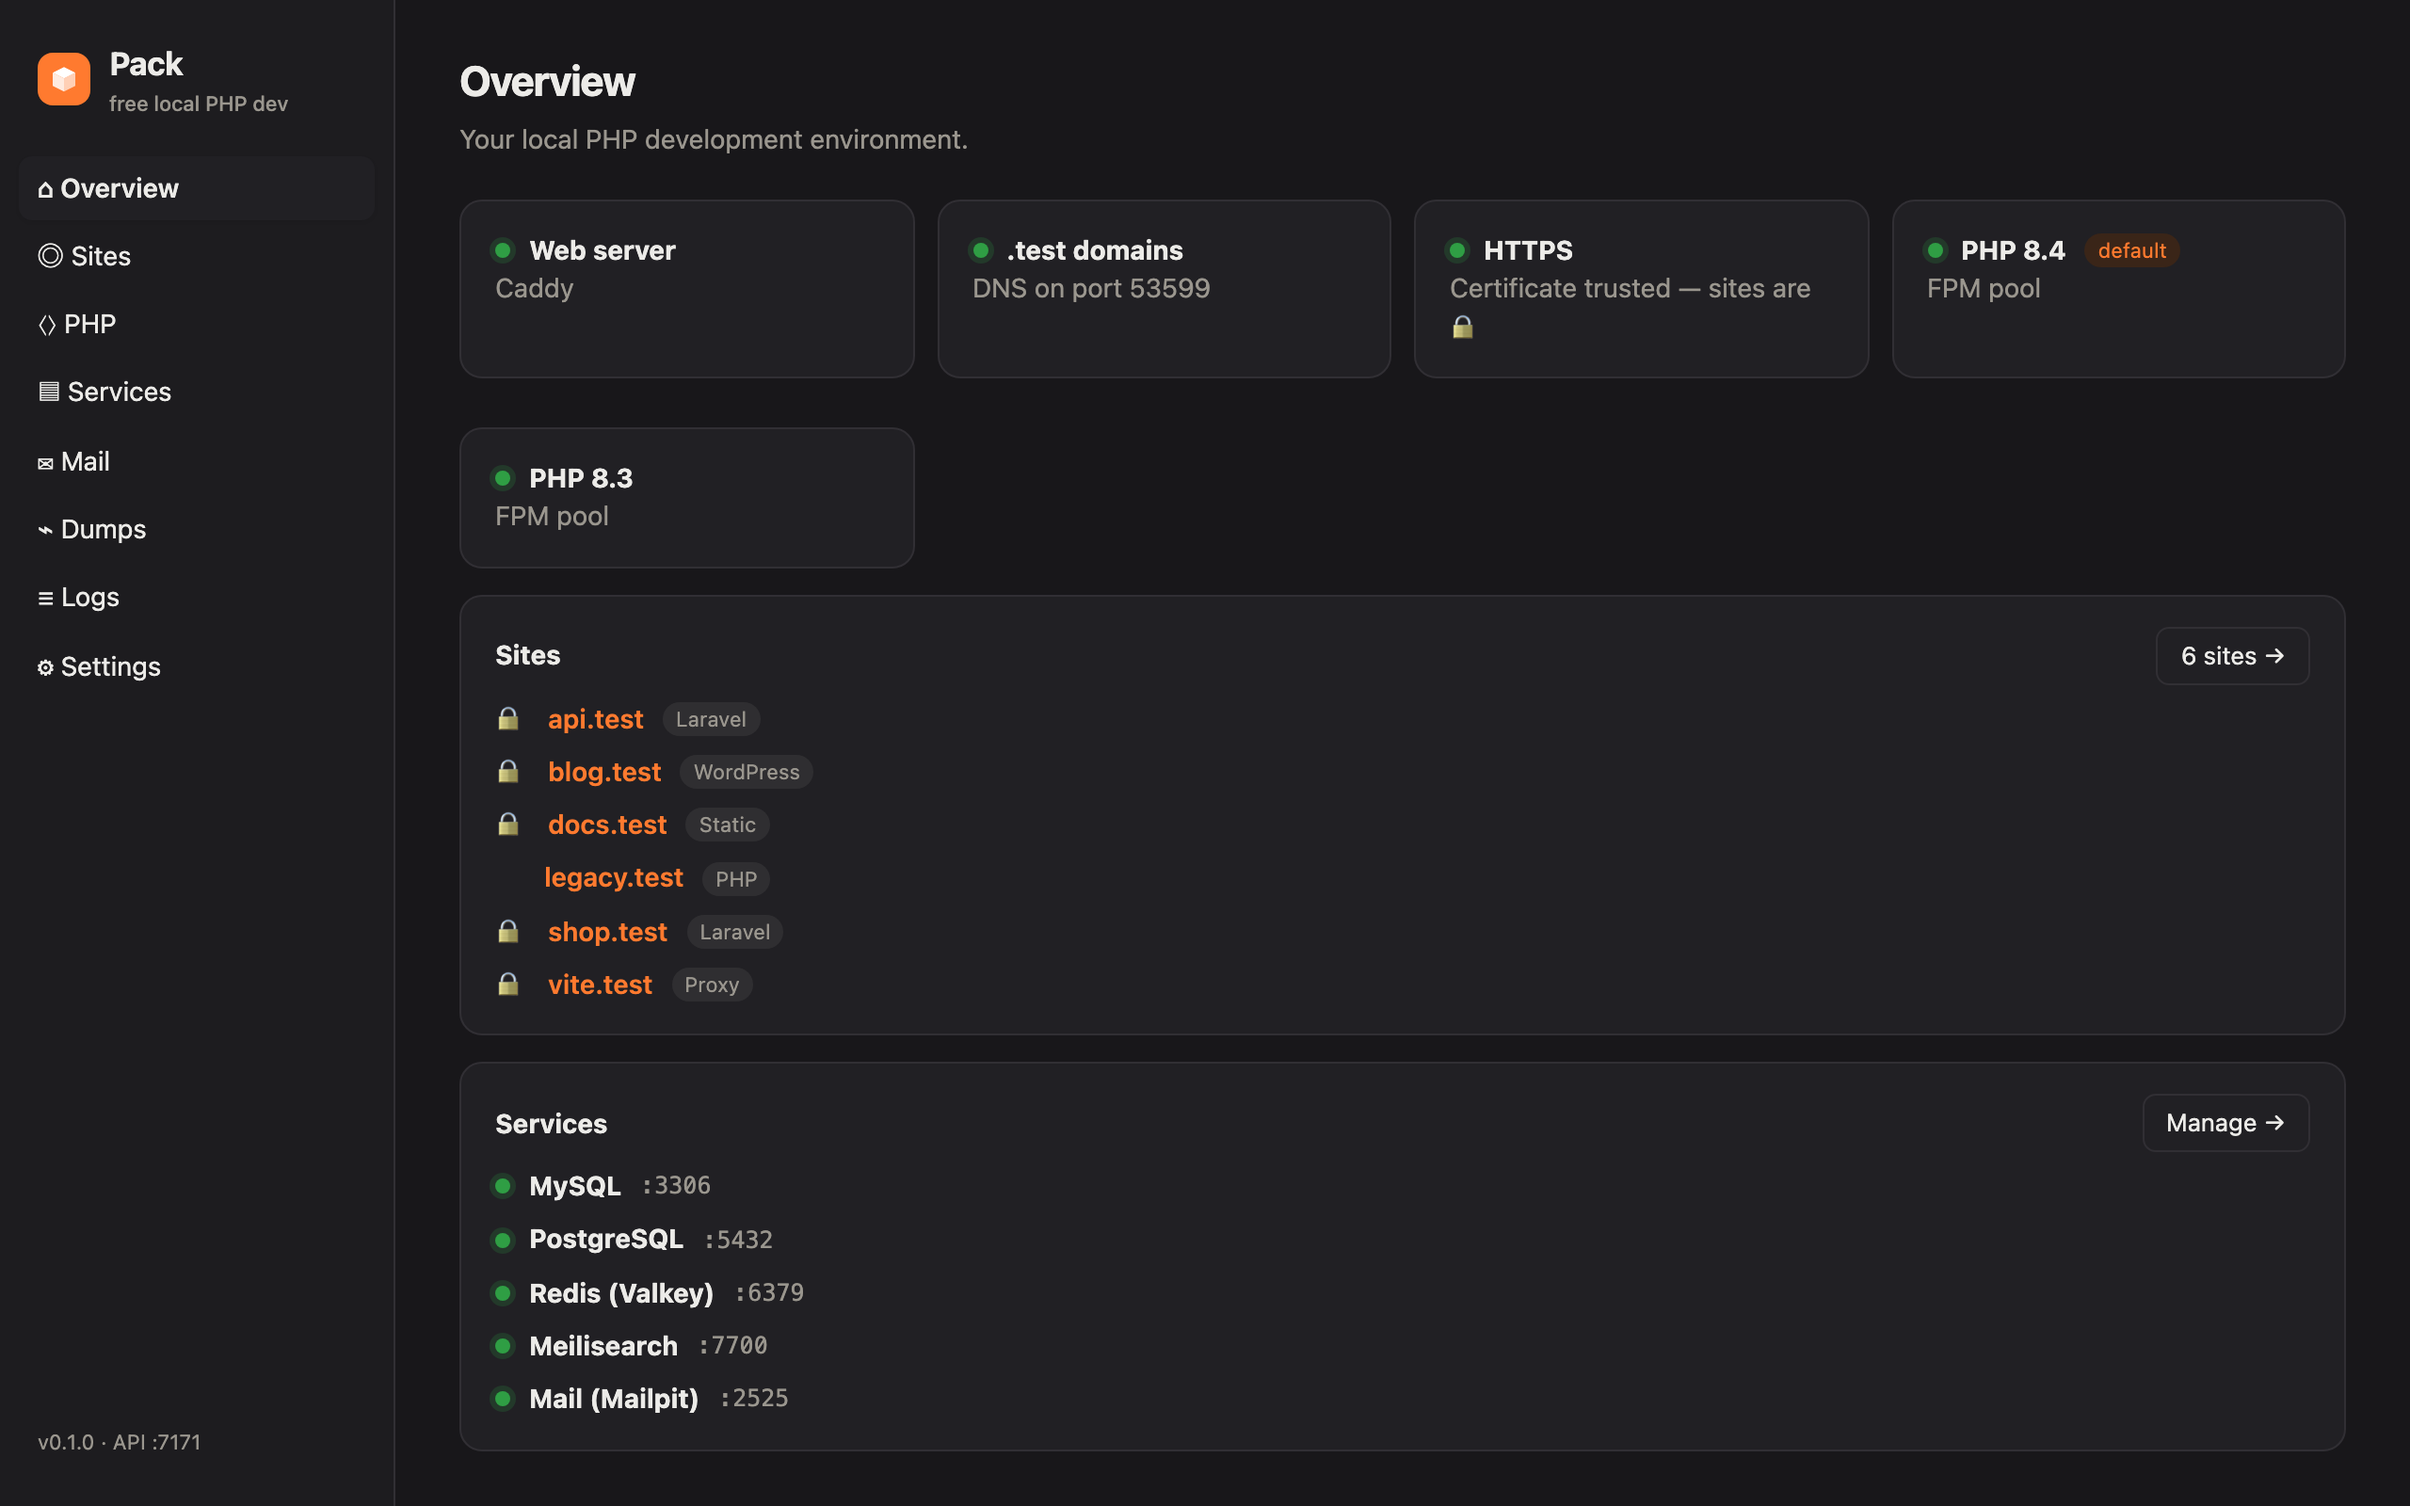
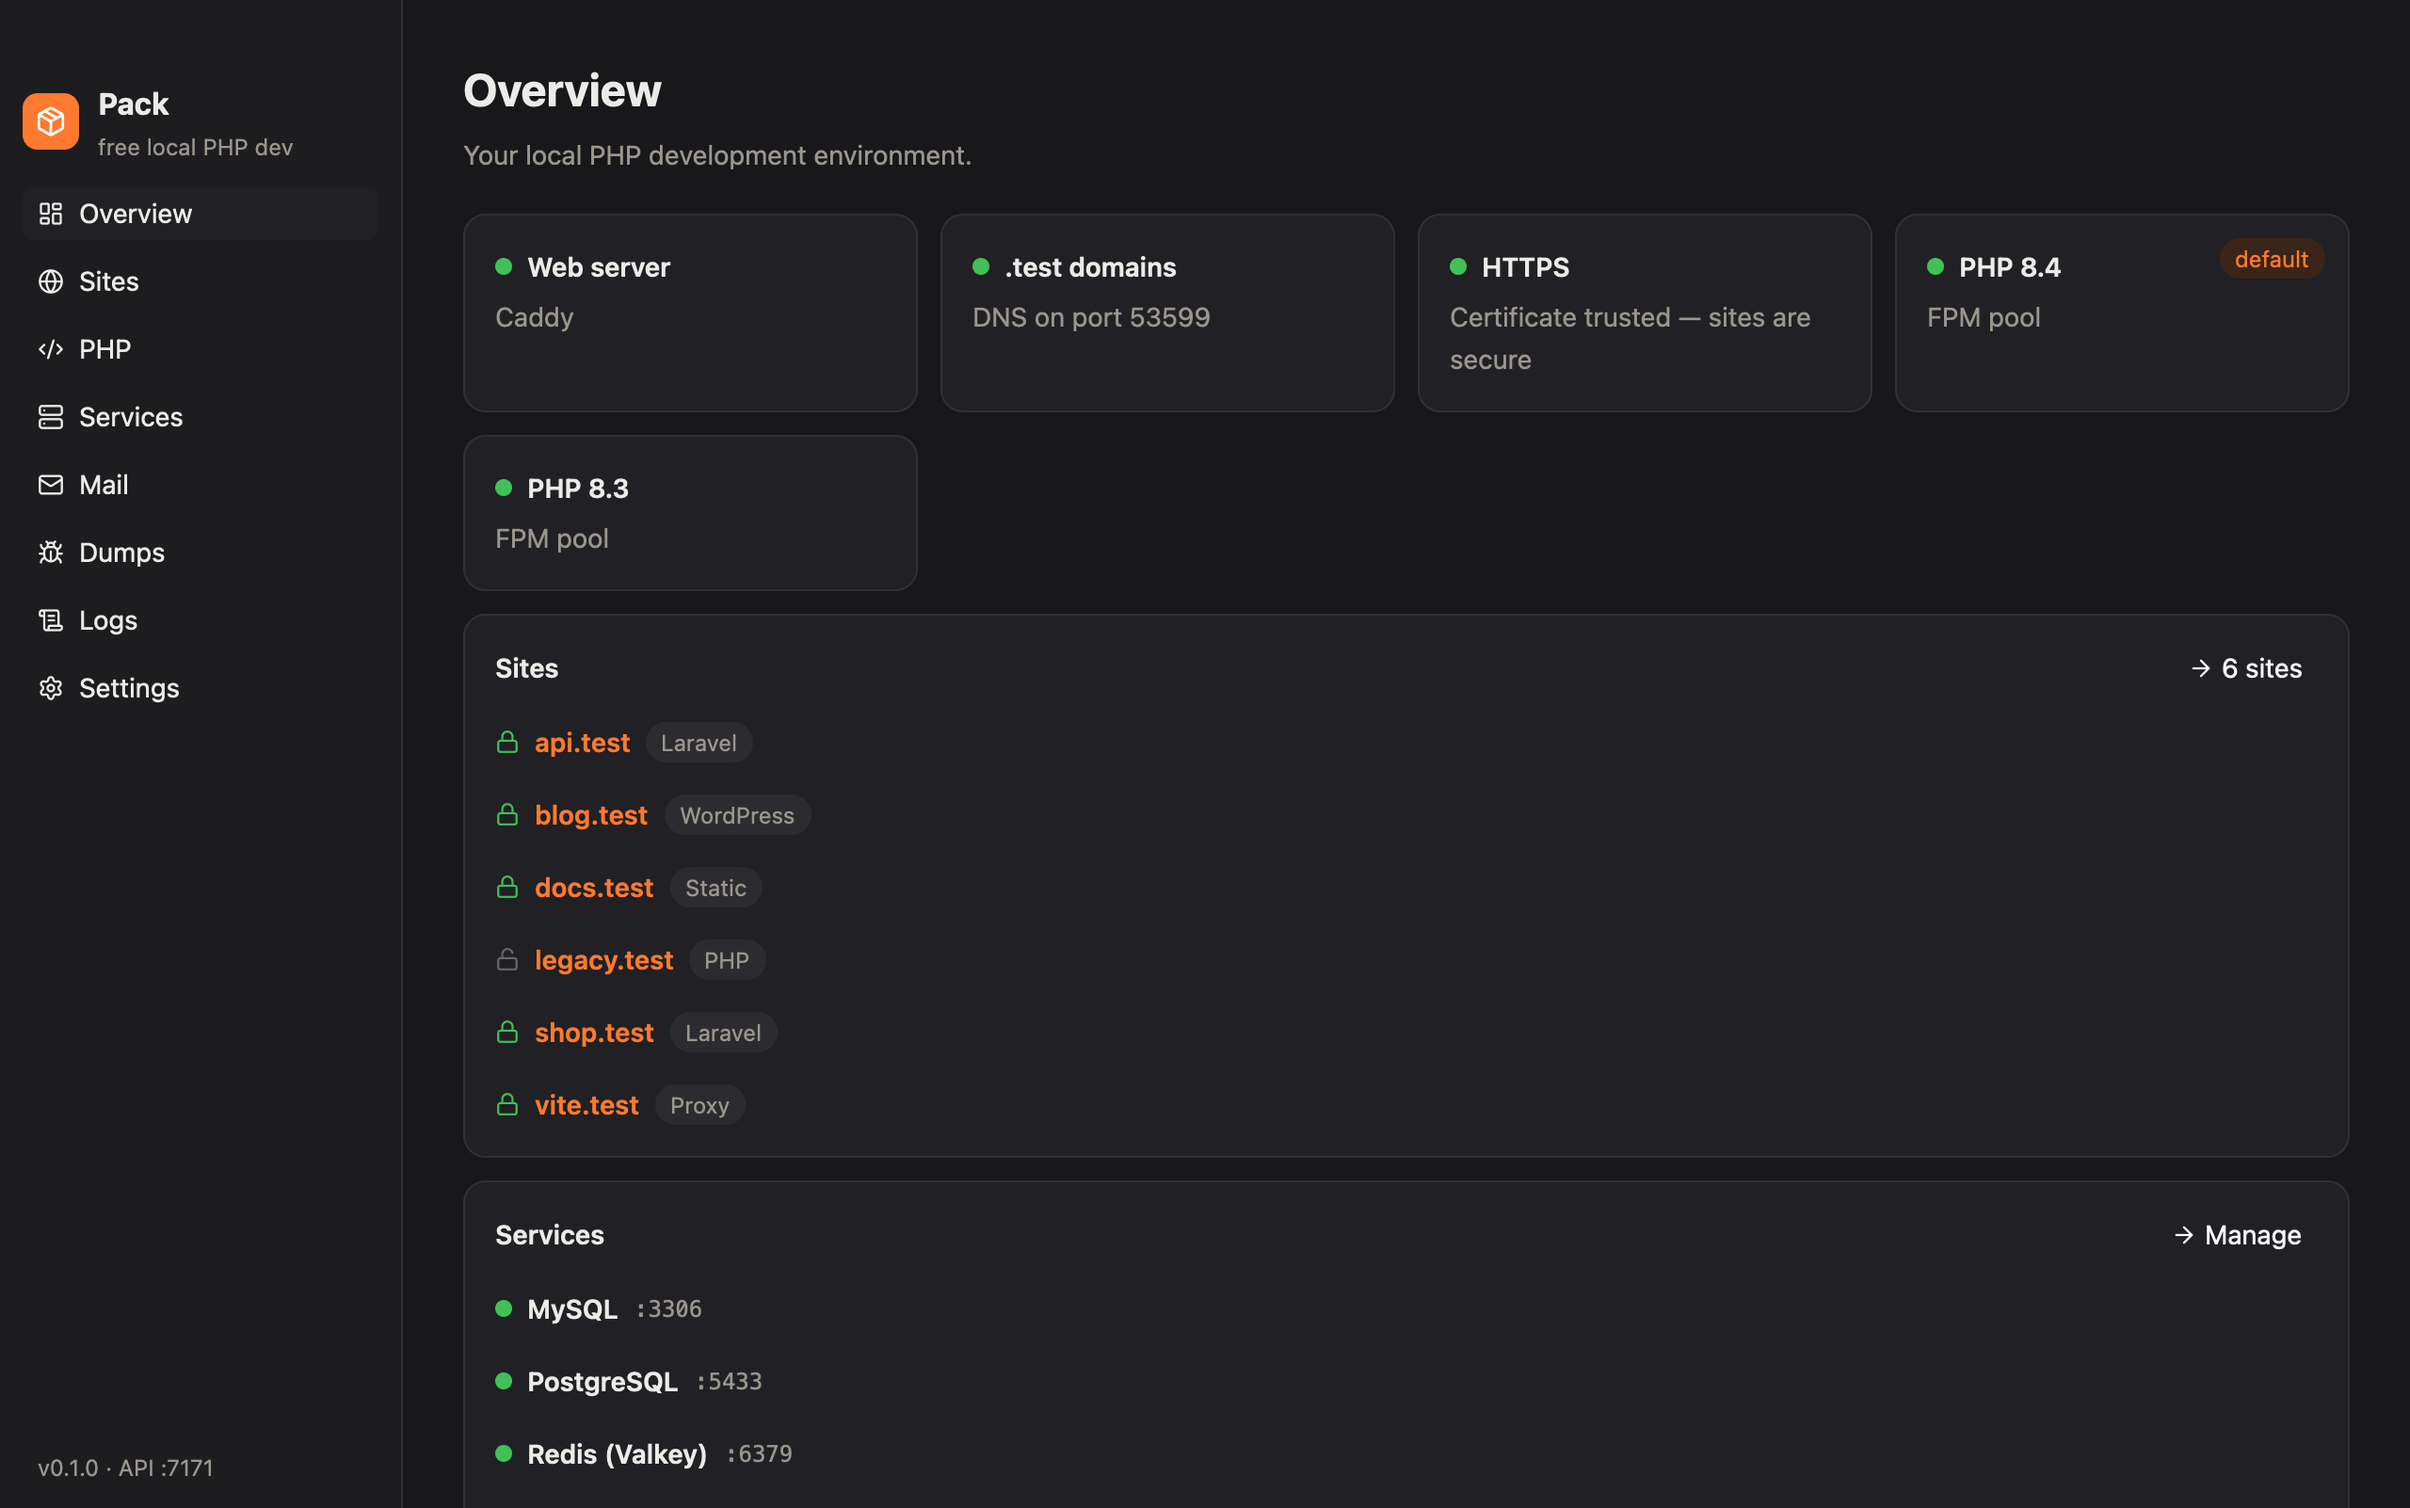
Build, release and screenshot the GPUI app
- release.yml and build-app.sh: cargo-packager for .dmg, NSIS/MSI, .deb and
  AppImage on every target, Linux dependencies in scripts/linux-deps.sh.
- ci.yml: build the app on macOS, Linux x86_64/arm64 and Windows.
- screenshots.sh/yml: the app renders the README screenshots itself instead
  of Playwright; still only when every service is running.

diff --git a/README.md b/README.md
@@ -62,7 +62,7 @@ Run `pack --help` for everything.
 
 ## How it works
 
-One small program (`pack`) runs in the background. It serves sites through [Caddy](https://caddyserver.com), runs a PHP-FPM pool per PHP version (php-cgi on Windows), and answers DNS for `.test`. It also keeps your services running.
+One small program (`pack`) runs in the background. The desktop app is a native [GPUI](https://www.gpui.rs) window (built with [GPUI Component](https://github.com/longbridge/gpui-component)) and a menu bar / tray icon that talk to it. The daemon serves sites through [Caddy](https://caddyserver.com), runs a PHP-FPM pool per PHP version (php-cgi on Windows), and answers DNS for `.test`. It also keeps your services running.
 
 Everything Pack installs is a prebuilt, checksummed package from this repository's releases, listed in a [manifest](https://github.com/KumaVolt/pack/releases/tag/manifest). A daily workflow rebuilds them when new versions come out. All data lives in one folder, so removing that folder removes everything:
 
@@ -76,12 +76,16 @@ Everything Pack installs is a prebuilt, checksummed package from this repository
 
 ```sh
 cargo run -p pack -- daemon       # run the daemon in the foreground
-scripts/build-app.sh              # build the desktop app for this machine
+cargo run -p pack-app             # run the desktop app (starts the daemon if needed)
+scripts/build-app.sh              # build the app and its installers for this machine (needs cargo-packager)
 scripts/smoke.sh target/release/pack   # end-to-end test in a throwaway home
-scripts/screenshots.sh target/release/pack   # retake the README screenshots (needs Playwright)
+cargo build --release -p pack-app --features screenshots
+scripts/screenshots.sh target/release/pack target/release/pack-app   # retake the README screenshots
 ```
 
-The screenshots are retaken by `.github/workflows/screenshots.yml` whenever the UI changes.
+On Linux, `sudo scripts/linux-deps.sh` installs the libraries the app needs to build.
+
+The screenshots are retaken by `.github/workflows/screenshots.yml` whenever the app or daemon changes. `pack-app --screenshots <dir>` renders each page offscreen, and only once its data is there: the Services page waits until every service is running.
 
 The packages are built by `scripts/packages.py` (see `.github/workflows/packages.yml`).
 
